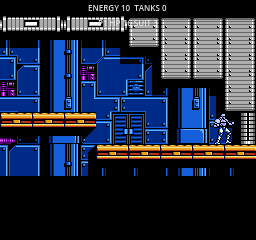
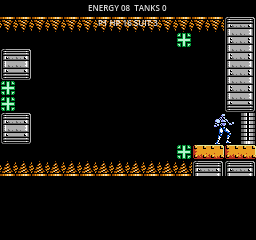
QA nova-pb2c: p4.2–p4.3 пройдены в цепочке p4-nova-pb2c

diff --git a/work/qa/nova-pb2c/go.py b/work/qa/nova-pb2c/go.py
@@ -1,0 +1,19 @@
+"""go.py BEAM_OUT.json CHAIN [NEED_EVENT] : replay beam result on the stand into CHAIN-cand;
+if it has more room changes than CHAIN (or reaches NEED_EVENT text), promote it into CHAIN."""
+import json,sys,os,subprocess,pathlib
+HERE=pathlib.Path(__file__).resolve().parent;sys.path.insert(0,str(HERE));import qa
+src=sys.argv[1]
+if not src.startswith('/'): src=os.environ['TMPDIR']+'/nova-pb2c/'+src
+chain=sys.argv[2]
+subprocess.run([str(HERE/'stand.sh')])
+r=subprocess.run(['python3',str(HERE/'accept.py'),src,chain+'-cand'],capture_output=True,text=True)
+print(r.stdout[-600:],r.stderr[-600:])
+new=json.load(open(qa.F/(chain+'-cand')/'replay.json'))['events']
+old=json.load(open(qa.F/chain/'replay.json'))['events'] if (qa.F/chain/'replay.json').exists() else []
+ch=lambda ev:[e for e in ev if e['event']=='changed']
+ok=len(ch(new))>len(ch(old)) or any(e['event']=='list' and e['message'].startswith('STAGE CLEAR') for e in new)
+if ok:
+  subprocess.run(['python3',str(HERE/'promote.py'),chain+'-cand',chain],check=True)
+  import shutil;shutil.rmtree(qa.F/(chain+'-cand'))
+  print('PROMOTED',new[-1])
+else: print('NOT PROMOTED')

diff --git a/docs/qa/reverse-2026-10-03/nova-pb2c.md b/docs/qa/reverse-2026-10-03/nova-pb2c.md
@@ -15,8 +15,8 @@ p5.0 = 39, p6.0 = 53). Только штатный вход, обычные на
 |---|---|---|---:|---|
 | p4.0 | ☑ | [цепочка p4](../playthrough/p4-nova-pb2c/replay.json) | 456 | начало p4-nova-pb2b (костюм 3), без урона |
 | p4.1 | ☑ | [цепочка p4](../playthrough/p4-nova-pb2c/replay.json) | 2238 | экран сам едет вверх; подъём по выезжающим платформам `$0F`, наверху через проём справа по потолку и в нишу двери слева; HP16 |
-| p4.2 | ☐ | — | — | |
-| p4.3 | ☐ | — | — | |
+| p4.2 | ☑ | [цепочка p4](../playthrough/p4-nova-pb2c/replay.json) | 2744 | влево через две ямы; без урона |
+| p4.3 | ☑ | [цепочка p4](../playthrough/p4-nova-pb2c/replay.json) | 2938 | сценка `$0E` (повторный вход в ту же комнату на 2789), затем влево к двери |
 | p4.4 | ☐ | — | — | |
 | p4.5 | ☐ | — | — | |
 | p4.6 | ☐ | — | — | |
